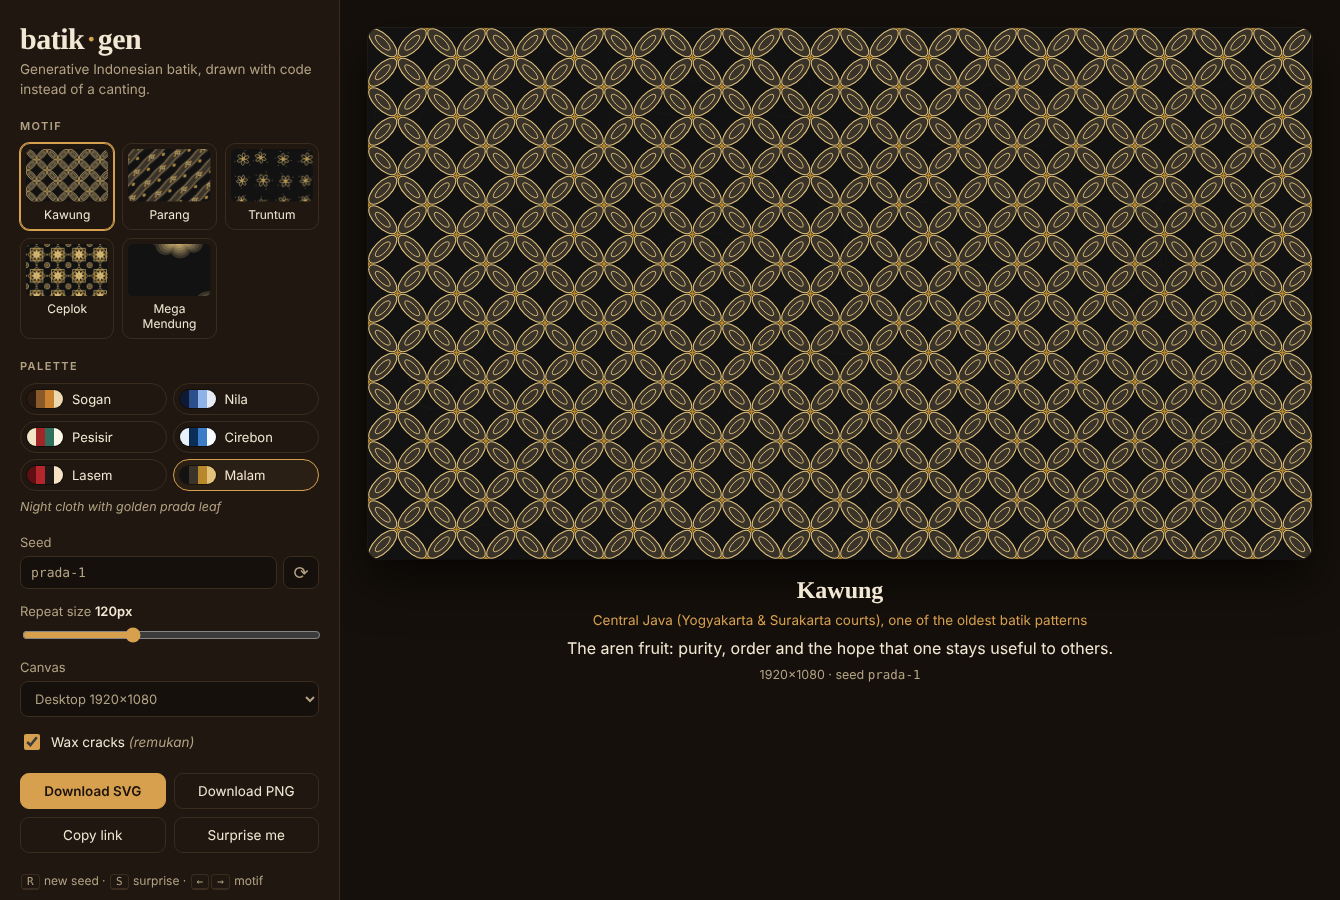
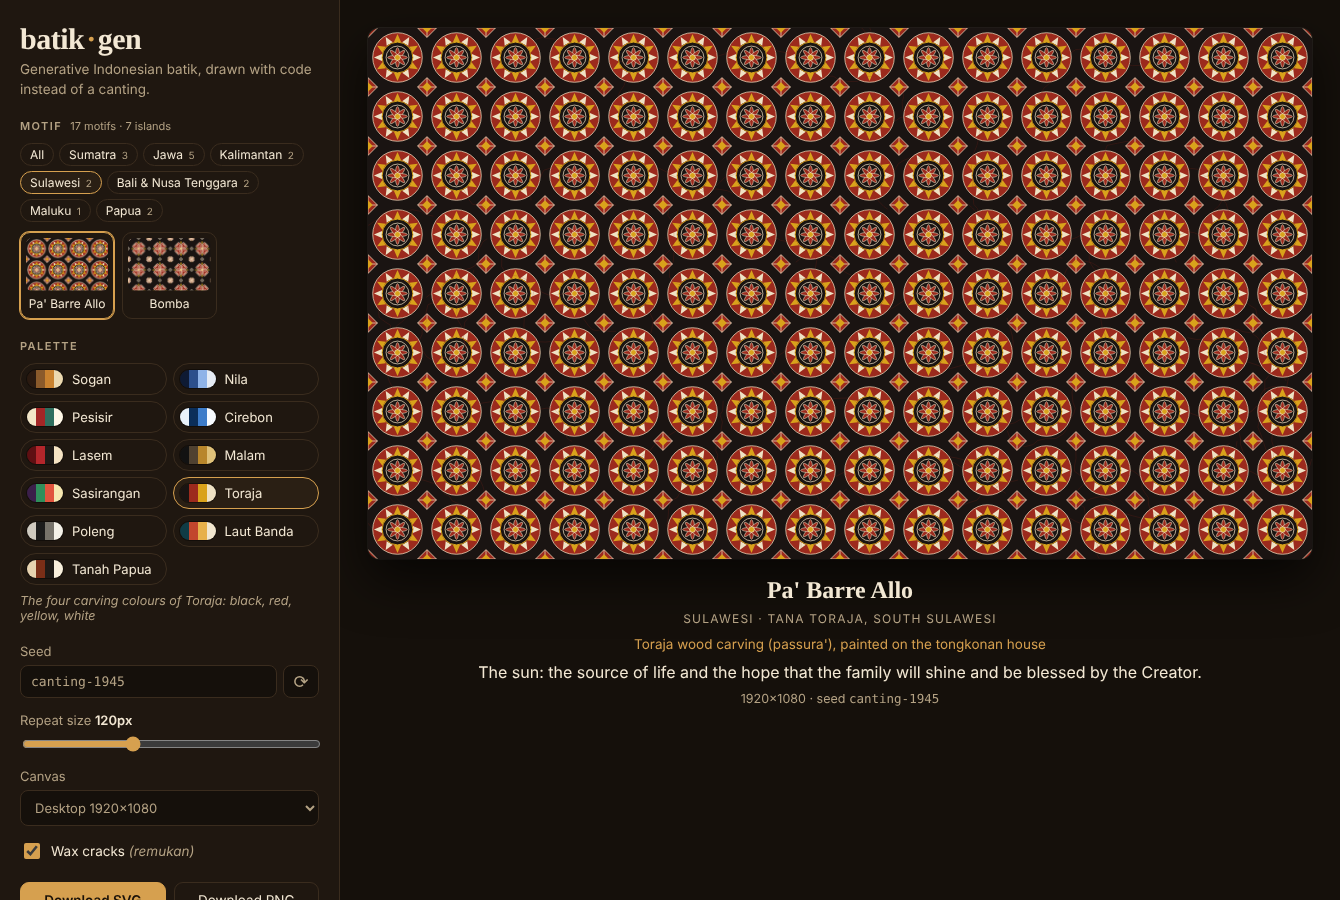
docs: motif gallery per island, how to add a motif, new screenshots; v1.1.0

diff --git a/README.md b/README.md
@@ -11,7 +11,20 @@ print-ready cloth as pure SVG. Same seed, same cloth: every design is a shareabl
 
 ## Motifs
 
-| | Motif | Origin | Meaning |
+17 motifs from 7 island groups, west to east. Each island has its own folder in
+[`src/lib/motifs/`](src/lib/motifs), and the app can filter by island.
+
+### Sumatra
+
+| | Motif | Region | Meaning |
+|---|---|---|---|
+| ![Pintu Aceh](docs/pintu-aceh.png) | **Pintu Aceh** | Aceh | The low door of the Rumoh Aceh — humility |
+| ![Pucuk Rebung](docs/pucuk-rebung.png) | **Pucuk Rebung** | Riau & West Sumatra | Young bamboo shoots — growth and hope |
+| ![Besurek](docs/besurek.png) | **Besurek Rafflesia** | Bengkulu | Rafflesia and the unfurling fern — pride in the land |
+
+### Jawa
+
+| | Motif | Region | Meaning |
 |---|---|---|---|
 | ![Kawung](docs/kawung.png) | **Kawung** | Yogyakarta & Surakarta courts | The aren palm fruit — purity and order |
 | ![Parang](docs/parang.png) | **Parang** | Mataram kingdom | Waves against rock — perseverance |
@@ -19,16 +32,54 @@ print-ready cloth as pure SVG. Same seed, same cloth: every design is a shareabl
 | ![Ceplok](docs/ceplok.png) | **Ceplok** | Yogyakarta | Balance of the four directions |
 | ![Mega Mendung](docs/megamendung.png) | **Mega Mendung** | Trusmi, Cirebon | Rain clouds — patience under pressure |
 
+### Kalimantan
+
+| | Motif | Region | Meaning |
+|---|---|---|---|
+| ![Sasirangan](docs/sasirangan.png) | **Sasirangan** | Banjarmasin, South Kalimantan | Tie-dyed "gigi haruan" zigzags — strength |
+| ![Batang Garing](docs/batang-garing.png) | **Batang Garing** | Central Kalimantan (Dayak Ngaju) | Tree of life joining the upper and lower worlds |
+
+### Sulawesi
+
+| | Motif | Region | Meaning |
+|---|---|---|---|
+| ![Pa' Barre Allo](docs/barre-allo.png) | **Pa' Barre Allo** | Tana Toraja | The sun carved on the tongkonan — blessing |
+| ![Bomba](docs/bomba.png) | **Bomba** | Palu (Kaili) | A blooming flower — friendship and welcome |
+
+### Bali & Nusa Tenggara
+
+| | Motif | Region | Meaning |
+|---|---|---|---|
+| ![Poleng](docs/poleng.png) | **Poleng** | Bali | Rwa Bhineda — light and dark in balance |
+| ![Ikat](docs/ikat.png) | **Ikat Belah Ketupat** | East Nusa Tenggara | Linked rhombi with hooks — kinship |
+
+### Maluku
+
+| | Motif | Region | Meaning |
+|---|---|---|---|
+| ![Pala & Cengkeh](docs/pala-cengkeh.png) | **Pala & Cengkeh** | Banda, Ambon & Ternate | Nutmeg and clove — the Spice Islands' wealth |
+
+### Papua
+
+| | Motif | Region | Meaning |
+|---|---|---|---|
+| ![Sentani](docs/sentani.png) | **Sentani** | Lake Sentani, Jayapura | The linked "fouw" spiral — togetherness |
+| ![Tifa](docs/tifa.png) | **Tifa** | Papua | The drum that calls people together |
+
 ## Features
 
-- **5 motifs × 6 palettes** — Sogan, Nila (indigo), Pesisir, Cirebon, Lasem red and Malam (night & gold).
+- **17 motifs × 11 palettes**: Sogan, Nila (indigo), Pesisir, Cirebon, Lasem red, Malam (night & gold), plus
+  regional palettes Sasirangan, Toraja, Poleng, Laut Banda and Tanah Papua. Every motif suggests its own palette with one click.
+- **Filter by island**: Sumatra, Jawa, Kalimantan, Sulawesi, Bali & Nusa Tenggara, Maluku, Papua.
 - **Seeded & deterministic** — a tiny `mulberry32` PRNG seeded by an FNV-1a hash; the seed changes proportions, ornaments (*isen*), petal counts and cloud layouts.
 - **Wax cracks (*remukan*)** — optional random-walk veins that imitate dye seeping through cracked wax, on their own RNG stream so toggling them never changes the motif.
-- **Seamless tiles** — Kawung, Parang, Truntum and Ceplok are SVG `<pattern>`s whose edges join perfectly; Mega Mendung is a full-canvas cloud field with 5–7 colour gradations.
+- **Seamless tiles**: most motifs are SVG `<pattern>`s whose edges join perfectly, some with a half-drop repeat (Tifa, Sentani, Besurek).
+  Mega Mendung is a full-canvas cloud field with 5–7 colour gradations. Sasirangan is drawn over the whole canvas too, because its
+  turbulence "dye bleed" filter would show seams on a tile.
 - **Export** SVG (vector, infinitely scalable) or PNG in Desktop, Phone, Square or GitHub-banner sizes.
 - **Shareable URL state** — everything lives in the hash, validated and clamped on load.
-- **Keyboard**: `R` new seed · `S` surprise me · `←` `→` switch motif.
-- **No runtime dependencies** — the generator is ~600 lines of plain TypeScript; Svelte 5 only drives the UI.
+- **Keyboard**: `R` new seed · `S` surprise me · `←` `→` switch motif (within the selected island).
+- **No runtime dependencies**: the generator is plain TypeScript (~2,000 lines). Svelte 5 only drives the UI.
 
 ## Stack
 
@@ -41,12 +92,20 @@ src/
 │   ├── palettes.ts     dye palettes, colour mixing, WCAG contrast
 │   ├── svg.ts          tiny SVG string helpers
 │   ├── motifs/         one generator per motif (pure functions → SVG markup)
+│   │   ├── islands.ts  the 7 island groups, west to east
+│   │   ├── sumatra/    pintu-aceh, pucuk-rebung, besurek
+│   │   ├── jawa/       kawung, parang, truntum, ceplok, megamendung
+│   │   ├── kalimantan/ sasirangan, batang-garing
+│   │   ├── sulawesi/   barre-allo, bomba
+│   │   ├── bali-nusa-tenggara/  poleng, ikat
+│   │   ├── maluku/     pala-cengkeh
+│   │   └── papua/      sentani, tifa
 │   ├── crackle.ts      wax-crack overlay
 │   ├── render.ts       renderSvg(options) → standalone SVG document
 │   ├── state.ts        URL hash <-> app state
 │   └── export.ts       SVG / PNG download (browser only)
 └── App.svelte          the control panel and preview
-tests/                  Vitest: determinism, SVG well-formedness, palettes, URL state
+tests/                  Vitest: determinism, SVG well-formedness, palettes, island registry, URL state
 ```
 
 ## Run locally
@@ -54,7 +113,7 @@ tests/                  Vitest: determinism, SVG well-formedness, palettes, URL 
 ```bash
 npm install
 npm run dev      # http://localhost:5173
-npm test         # 31 tests
+npm test         # 73 tests
 npm run build    # static site in dist/
 ```
 
@@ -69,10 +128,20 @@ const svg = renderSvg({
 });
 ```
 
+## Add a motif
+
+1. Create `src/lib/motifs/<island>/<motif>.ts` exporting a `Motif` (`id`, `name`, `island`, `region`,
+   `origin`, `meaning`, optional `palette`, and `render()` returning SVG markup). The helpers in `src/lib/svg.ts`
+   (`tile`, `spiral`, `steppedDiamond`, `ring`, `pts`) cover most shapes.
+2. Add it to that island's `index.ts`.
+3. `npm test`. Every motif is automatically checked for well-formed, deterministic SVG in every palette.
+
 ## Notes
 
-The motifs are simplified, geometric interpretations made for fun and learning —
-not reproductions of any specific cloth. Real batik tulis is drawn by hand with hot
+The motifs are simplified, geometric interpretations made for fun and learning,
+not reproductions of any specific cloth. Some regional motifs (Sasirangan, Poleng, ikat) come from tie-dye
+or woven traditions rather than wax batik; today they are also made as batik, and they are included to show the
+range of Indonesian textile design. Real batik tulis is drawn by hand with hot
 wax and can take months; go buy some. 🇮🇩
 
 ## License
